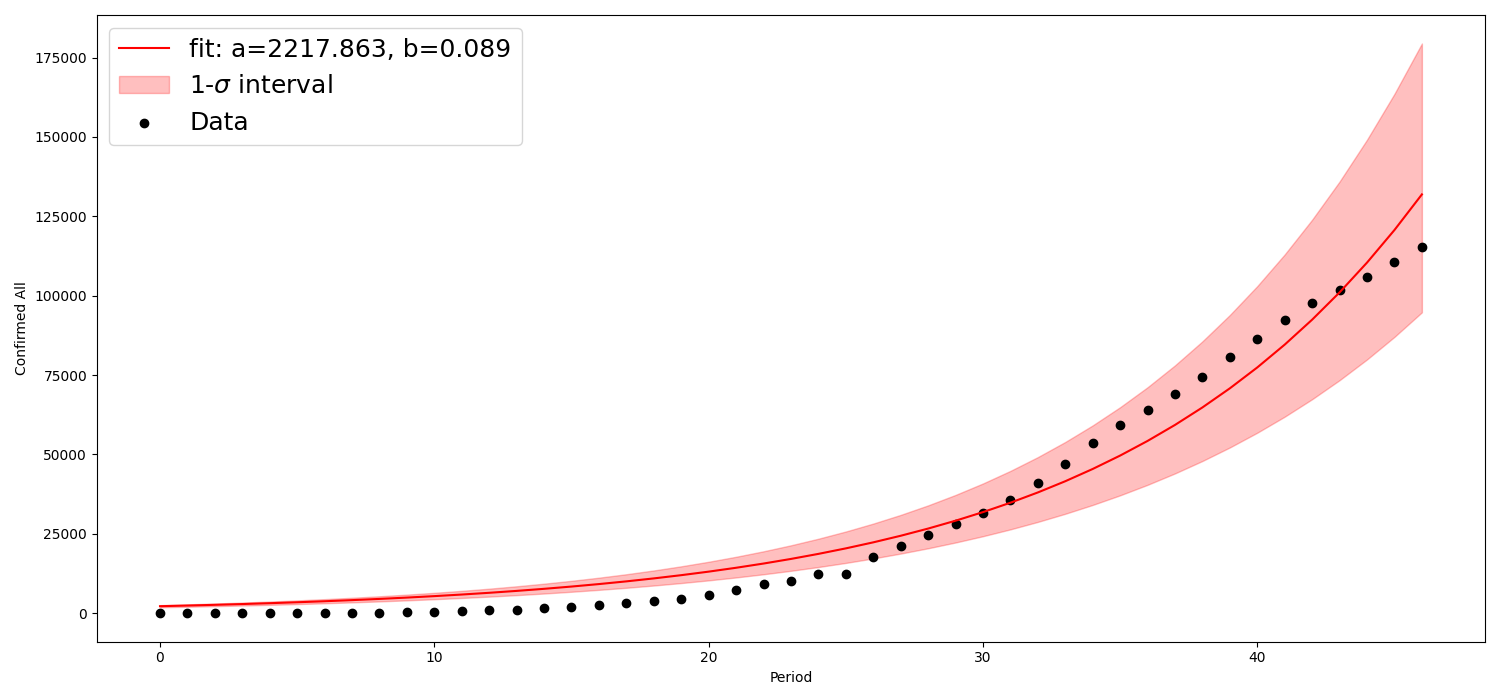
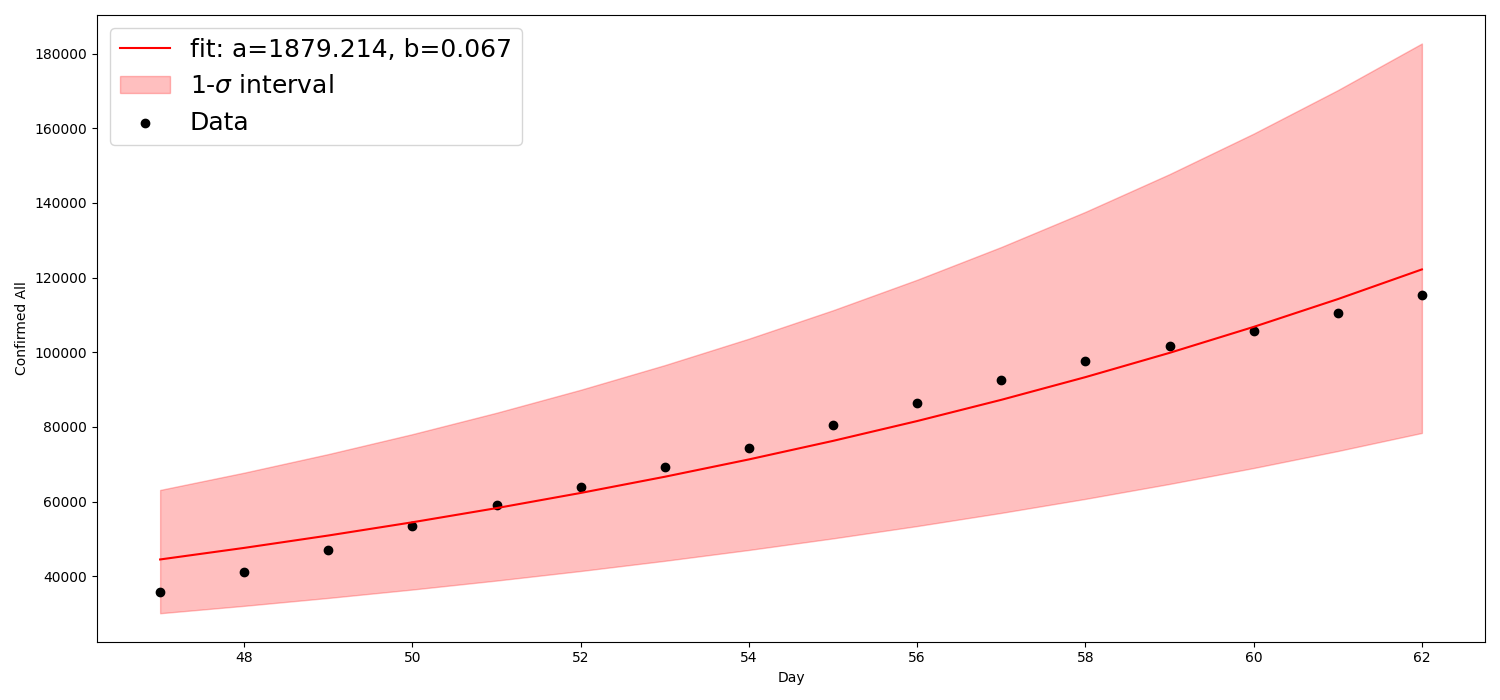
growth gradient

diff --git a/doubling_time.py b/doubling_time.py
@@ -32,14 +32,17 @@ def errors(params_cov):
     params_err = perrors(params_cov)
     return np.sqrt(np.diag(params_cov))
 
-def fit(country = '', query = None, do_1st_order = True, do_2nd_order = False, show = True):
+def fit(country = '',
+        query_raw = None,
+        query_der = None,
+        do_1st_order = True, do_2nd_order = False, show = True):
     odir = 'images/doubling_time'
     y_data_label = 'Confirmed All'
     _countries = []
     _countries.append(country)
     print(_countries)
-    dloader = xp.DataLoader(query = query, countries = _countries)
-    df = dloader.leaders
+    dloader = xp.DataLoader(query = query_raw, countries = _countries)
+    df = dloader.leaders.query( query_der.query )
 
     print("Fit:", df.head())
 
@@ -149,7 +152,7 @@ def fit(country = '', query = None, do_1st_order = True, do_2nd_order = False, s
 
 
     plt.ylabel(y_data_label)
-    plt.xlabel('Period')
+    plt.xlabel('Day')
         
     plt.legend(loc='best')
 
@@ -164,6 +167,8 @@ def fit(country = '', query = None, do_1st_order = True, do_2nd_order = False, s
     return r, dr
 
 #########################################################################
+
+## query on initial data
 q0 = xq.Query("All Period", "Confirmed > 0 and Date < '2021-01-01'")
 q3 = xq.Query("Germany", " 'Confirmed All' > 0 and Country == 'Germany'")
 q4 = xq.Query("Basic", "Date < '2021-01-01'")
@@ -172,21 +177,23 @@ q5 = xq.Query("Basic", "Date < '2020-03-30'")
 
 qbase = xq.Query("Base", "Date > '2020-01-01'")
 qkink = xq.Query("Base", "Date > '2020-02-15'")
-
-
 q1 = xq.Query("Basic", "Date < '2020-03-15'")
 q2 = xq.Query("Basic", "Date < '2020-03-30'")
 q3 = xq.Query("Basic", "Date < '2021-01-11'")
 
-query = qkink + q3
 
-print("Query", query)
+#query = qkink + q3
+qRaw = qbase
+print("Raw Query", qRaw)
+
+## query on derived data
+qDer = xq.Query("Recent", "RecentDays <=15 ")
+print("Derived Query", qDer)
 
 
 asia = ['Mainland China', 'South Korea', 'Iran']
-europe = ['Germany',  'UK', 'Italy','Spain', 'France', 'Greece']#, 'Cyprus']
+europe = ['Germany',  'UK', 'Italy', 'Spain', 'France', 'Greece']#, 'Cyprus']
 amerika = ['US']
-
 countries = europe + amerika # + asia
 
 doubling_time = []
@@ -199,7 +206,10 @@ show = False
 
 for country in countries:
     print("Doubling time", country)
-    t, dt = fit(country = country, query = query, do_1st_order = True, do_2nd_order = False, show = show)
+    t, dt = fit(country = country,
+                query_raw = qRaw,
+                query_der = qDer,
+                do_1st_order = True, do_2nd_order = False, show = show)
     doubling_time.append(t)
     doubling_time_error.append(dt)
 

diff --git a/growth_gradient.py b/growth_gradient.py
@@ -1,0 +1,42 @@
+import matplotlib.pyplot as plt
+import numpy as np
+import proc as xp
+import xquery as xq
+
+query_raw = xq.Query("Base", "Date > '2020-03-01'")
+query_derived = xq.Query("Recent", "")#RecentDays <=15 ")
+
+y_data_label = 'Confirmed All'
+
+asia = ['Mainland China', 'South Korea', 'Iran']
+europe = ['Germany',  'UK', 'Italy', 'Spain', 'France']#, 'Greece']#, 'Cyprus']
+amerika = ['US']
+countries = europe + amerika # + asia
+#countries = ['Germany']
+
+fig, ax = plt.subplots(figsize=(15,7))
+    
+for country in countries:
+    dloader = xp.DataLoader(query = query_raw, countries = [country])
+    df = dloader.leaders
+    if  query_derived.query:
+        df = df.query( query_derived.query )
+    x = df['Days'].to_numpy()
+    dx = x[1] - x[0]
+    y = df[y_data_label].to_numpy()
+    dy = np.gradient(y, dx )
+    k = dy/y
+    T = np.log(2)/k
+    
+    
+    plt.plot(x,
+             T,
+             label=country)
+         
+
+plt.legend(loc='upper left', fontsize=18)
+plt.grid(axis='x', linestyle='--')
+plt.grid(axis='y', linestyle='--')
+plt.tight_layout()
+plt.show()
+plt.close('all')

diff --git a/proc.py b/proc.py
@@ -185,11 +185,18 @@ class DataLoader(object):
         self.__leaders = self.__leaders.sort_values('Date', ascending=False)
         #self.__leaders['FirstDate'] = self.__covid_data.groupby(['Country'])['Date'].transform('min')
         self.__leaders['FirstDate'] = self.__leaders.groupby(['Country'])['Date'].transform('min')
-        print(self.__leaders['FirstDate'])
+        print("leaders first day:\n", self.__leaders['FirstDate'])
 
-        self.__leaders['Days'] = (self.__leaders['Date'] -
+        self.__leaders['LastDate'] = self.__leaders.groupby(['Country'])['Date'].transform('max')
+        print("leaders last day:\n", self.__leaders['LastDate'])
+
+
+        self.__leaders['Days'] = (self.__leaders['Date'] - \
                                   self.__leaders['FirstDate']).dt.days
-        
+
+        self.__leaders['RecentDays'] = (self.__leaders['LastDate'] - \
+                                        self.__leaders['Date']).dt.days
+
         print("\nlead head:\n", self.__leaders.head())
         print("\nlead tail:\n", self.__leaders.tail())
 

diff --git a/README.md b/README.md
@@ -49,59 +49,22 @@ the better is in terms of a slowingdown spread. Small values indicate steeply in
 
 We assume that the outbreak in Europe occured around 10-15 February 2020.
 
-### 15 February - Today
+### Time window = Last 15 days
 |    | Country   |   Doubling Time |   Doubling Time Error |
 |---:|:----------|----------------:|----------------------:|
-|  2 | Italy     |         7.80437 |             0.320272  |
-|  5 | Greece    |         7.05933 |             0.243077  |
-|  0 | Germany   |         5.62748 |             0.186466  |
-|  4 | France    |         5.51874 |             0.127942  |
-|  3 | Spain     |         5.37994 |             0.170493  |
-|  1 | UK        |         4.30286 |             0.0697051 |
-|  6 | US        |         4.0121  |             0.0995399 |
-
-
-### 15 February - 1 April 2019
-|    | Country   |   Doubling Time |   Doubling Time Error |
-|---:|:----------|----------------:|----------------------:|
-|  2 | Italy     |         6.81088 |             0.244844  |
-|  5 | Greece    |         6.45466 |             0.248195  |
-|  4 | France    |         5.02641 |             0.11177   |
-|  0 | Germany   |         4.82211 |             0.137639  |
-|  3 | Spain     |         4.59738 |             0.120638  |
-|  1 | UK        |         3.88707 |             0.0610509 |
-|  6 | US        |         3.43474 |             0.0820507 |
-
-
-### 15 February - 31 March 2020
-|    | Country   |   Doubling Time |   Doubling Time Error |
-|---:|:----------|----------------:|----------------------:|
-|  2 | Italy     |         6.50204 |             0.220959  |
-|  5 | Greece    |         6.20843 |             0.240083  |
-|  4 | France    |         4.82414 |             0.100359  |
-|  0 | Germany   |         4.55695 |             0.116807  |
-|  3 | Spain     |         4.34995 |             0.101768  |
-|  1 | UK        |         3.71551 |             0.0476741 |
-|  6 | US        |         3.22256 |             0.0693933 |
-
-
-### 15 February - 15 March 2020
-|    | Country        |   Doubling Time |   Doubling Time Error |
-|---:|:---------------|----------------:|----------------------:|
-|  8 | South Korea    |         7.92763 |             0.817927  |
-|  9 | Iran           |         4.46828 |             0.250423  |
-|  2 | Italy          |         3.6665  |             0.102771  |
-|  5 | Greece         |         2.87314 |             0.214048  |
-|  4 | France         |         2.77615 |             0.0915842 |
-|  1 | UK             |         2.61483 |             0.130392  |
-|  6 | US             |         2.54253 |             0.0432671 |
-|  0 | Germany        |         2.5209  |             0.0961247 |
-|  3 | Spain          |         1.88386 |             0.0955873 |
+|  2 | Italy     |        10.2942  |              0.538543 |
+|  5 | Greece    |         8.17605 |              0.194635 |
+|  0 | Germany   |         6.34621 |              0.282157 |
+|  4 | France    |         5.95507 |              0.193496 |
+|  3 | Spain     |         5.8896  |              0.290198 |
+|  1 | UK        |         4.42453 |              0.110834 |
+|  6 | US        |         4.14469 |              0.164233 |
 
 Note: China does not expose an exponential growth.
 
 ### Germany Today
 ![Germany's doubling time](images/doubling_time/Germany.png "Germany's doubling time")
+Growth for Germany considering the last 15 days.
 
 ## Overview 
 ![Overview stats](images/eda/overview.png?raw=true "Overview")
